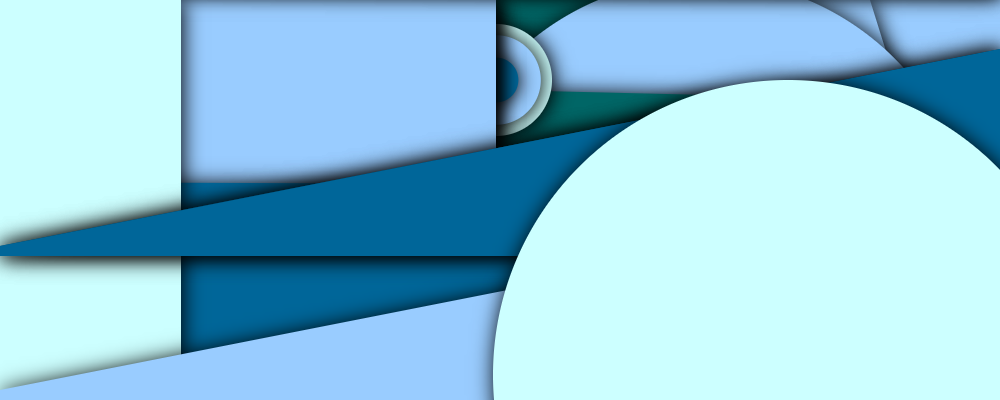
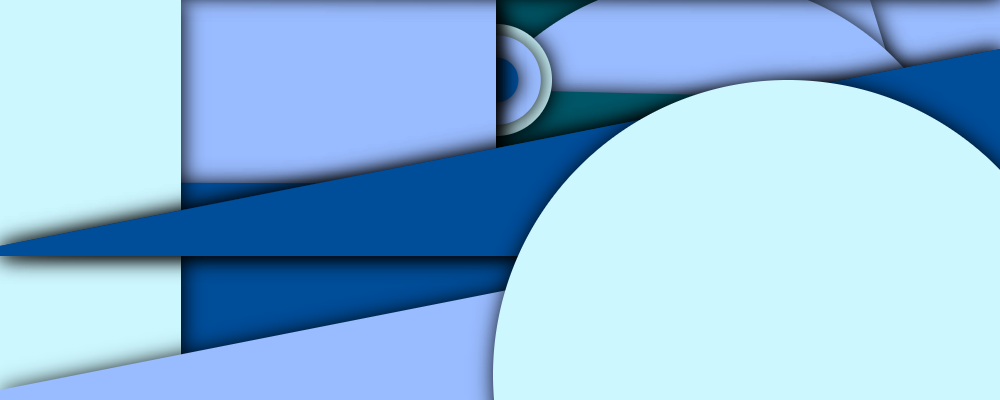
Background updates

Changed region(s): [[0.0, 0.33, 0.589, 0.66], [0.186, 0.69, 0.465, 0.84], [0.868, 0.12, 1.0, 0.36]]

diff --git a/merchandise.html b/merchandise.html
@@ -13,7 +13,7 @@
 	<meta name="keywords" content="PicoPlanet, PicoPlanetDev, App, Apps, VR Playground, Rabbit Dash, Chemistry VR Photos, Development, Dev, Android, Website, Play Store, Games, VR, Unity"/>
 	<style type="text/css">
 		.mdl-layout__content .heading-div .heading {
-			background-image: url('/images/background/PicoPlanetBackground8.png');
+			background-image: url('/images/background/PicoPlanetBackground10.png');
 		}
 	</style>
 	<script>

diff --git a/privacy.html b/privacy.html
@@ -13,7 +13,7 @@
 	<meta name="keywords" content="PicoPlanet, PicoPlanetDev, App, Apps, VR Playground, Rabbit Dash, Chemistry VR Photos, Development, Dev, Android, Website, Play Store, Games, VR, Unity"/>
 	<style type="text/css">
 		.mdl-layout__content .heading-div .heading {
-			background-image: url('/images/background/PicoPlanetBackground8.png');
+			background-image: url('/images/background/PicoPlanetBackground7.png');
 		}
 	</style>
 	<script>

diff --git a/about.html b/about.html
@@ -15,6 +15,7 @@
 	<style type="text/css">
 		.mdl-layout__content .heading-div .heading {
 			background-image: url('/images/background/PicoPlanetBackground7.png');
+			background-position: left top;
 		}
 	</style>
 
